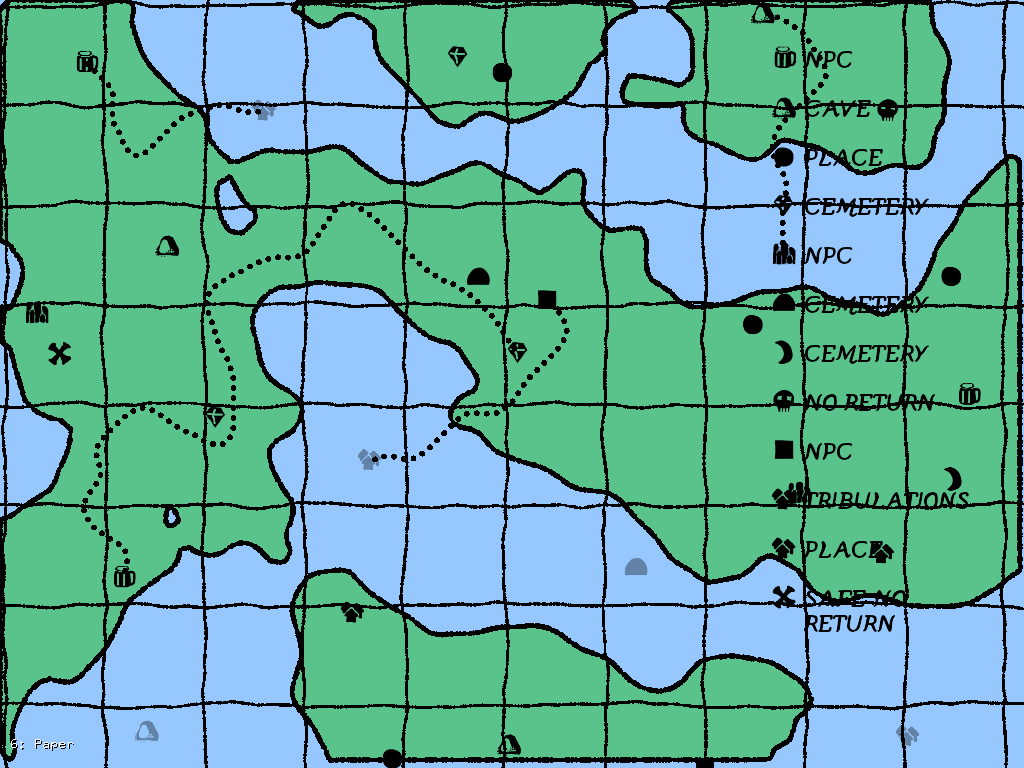
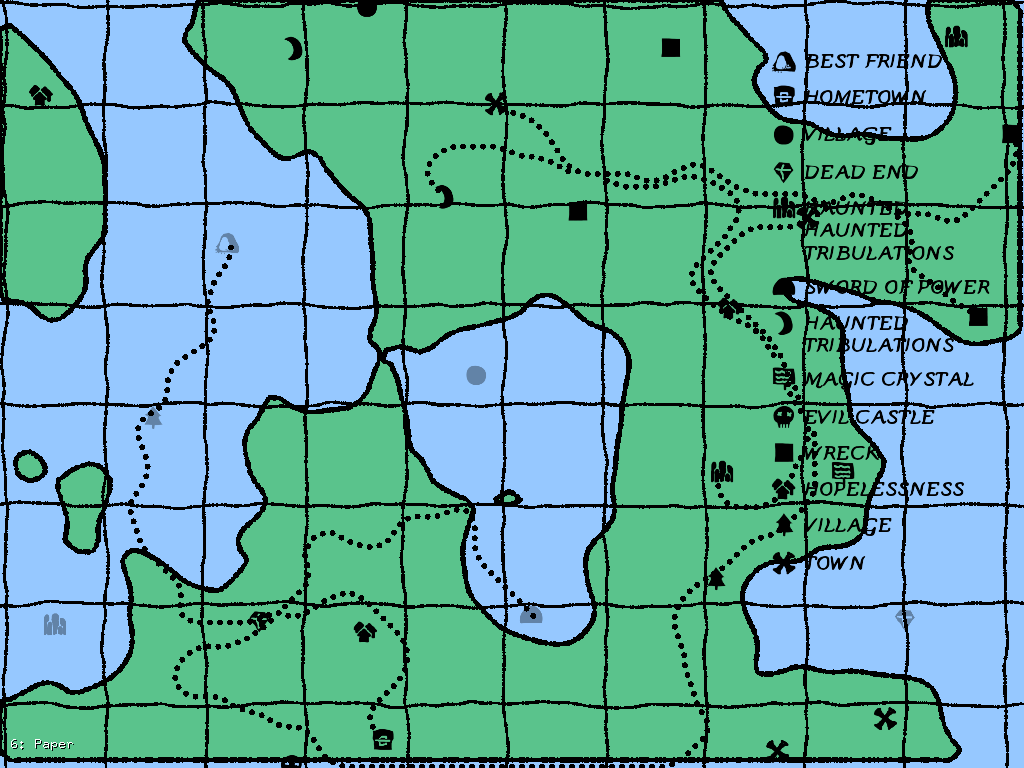
Whoops, include missing files. Also some tweaks.

diff --git a/LittleMap/src/Paper.cpp b/LittleMap/src/Paper.cpp
@@ -1,0 +1,102 @@
+#include "Paper.h"
+
+#include "Noise.h"
+#include "RoughDrawer.h"
+
+int margin = 25;
+const float gridNoiseScale = 0.05f;
+const float gridWobble = 8.0f;
+const float gridDetail = 12.0f;
+
+
+Paper::Paper(Legend& legendRef)
+	: legendRef(legendRef)
+{
+}
+
+Paper::~Paper()
+{
+}
+
+void Paper::Setup()
+{
+	Reset();
+}
+
+void Paper::Reset()
+{
+	if (image.isAllocated())
+		image.clear();
+	image.allocate(ofGetWidth(), ofGetHeight(), GL_RGBA);
+}
+
+float Paper::PaperNoise(float x, float y)
+{
+	return Noise(x*gridNoiseScale, y*gridNoiseScale, 3, 0.5f, 0.4f);
+}
+
+bool Paper::Render()
+{
+	ofRectangle legendBounds = legendRef.GetBounds();
+	legendBounds.translate(-margin, -margin);
+	legendBounds.setWidth(legendBounds.getWidth() + margin * 2);
+	legendBounds.setHeight(legendBounds.getHeight() + margin * 2);
+
+	ofPolyline path;
+	path.addVertex(legendBounds.getTopLeft());
+	float x, y;
+	y = legendBounds.getMinY();
+	for (x = legendBounds.getMinX(); x <= legendBounds.getMaxX(); x += gridDetail)
+	{
+		ofPoint offset(PaperNoise(x, y), PaperNoise(x, y + 1000.0f));
+		path.curveTo(offset * gridWobble + ofPoint(x, y));
+	}
+	path.lineTo(legendBounds.getTopRight());
+	x = legendBounds.getMaxX();
+	for (y = legendBounds.getMinY(); y <= legendBounds.getMaxY(); y += gridDetail)
+	{
+		ofPoint offset(PaperNoise(x, y), PaperNoise(x, y + 1000.0f));
+		path.curveTo(offset * gridWobble + ofPoint(x, y));
+	}
+	path.lineTo(legendBounds.getBottomRight());
+	y = legendBounds.getMaxY();
+	for (x = legendBounds.getMaxX(); x >= legendBounds.getMinX(); x -= gridDetail)
+	{
+		ofPoint offset(PaperNoise(x, y), PaperNoise(x, y + 1000.0f));
+		path.curveTo(offset * gridWobble + ofPoint(x, y));
+	}
+	path.lineTo(legendBounds.getBottomLeft());
+	x = legendBounds.getMinX();
+	for (y = legendBounds.getMaxY(); y >= legendBounds.getMinY(); y -= gridDetail)
+	{
+		ofPoint offset(PaperNoise(x, y), PaperNoise(x, y + 1000.0f));
+		path.curveTo(offset * gridWobble + ofPoint(x, y));
+	}
+	path.lineTo(legendBounds.getTopLeft());
+
+	image.begin();
+
+
+
+	ofSetColor(ofColor::beige);
+	ofFill();
+	ofEnableSmoothing();
+
+	ofTessellator tesselator = ofTessellator();
+	ofMesh mesh;
+	tesselator.tessellateToMesh(path, ofPolyWindingMode::OF_POLY_WINDING_ODD, mesh);
+	mesh.draw();
+
+	ofSetColor(ofColor::black);
+	ofFill();
+	ofEnableSmoothing();
+	RoughTracePath(path, 1.5f, 3.0f);
+
+	image.end();
+	return true;
+}
+
+void Paper::Draw()
+{
+	image.draw(0, 0);
+}

diff --git a/LittleMap/src/Paper.h b/LittleMap/src/Paper.h
@@ -1,0 +1,25 @@
+#pragma once
+#include "Stage.h"
+#include "ofMain.h"
+
+#include "Legend.h"
+
+class Paper : public Stage
+{
+public:
+	Paper(Legend& legendRef);
+	~Paper();
+
+	virtual void Setup();
+	virtual bool Render();
+	virtual void Draw();
+	virtual void Reset();
+
+private:
+	Legend& legendRef;
+	
+	float PaperNoise(float x, float y);
+
+	ofFbo image;
+};
+

diff --git a/LittleMap/src/RoughDrawer.cpp b/LittleMap/src/RoughDrawer.cpp
@@ -1,0 +1,15 @@
+#include "RoughDrawer.h"
+#include "ofMain.h"
+
+void RoughTracePath(ofPolyline& path, float minSize, float maxSize)
+{
+	float len = 0;
+	while (path.getIndexAtLength(len) < path.size()-1) // apparently size - 1....
+	{
+		ofPoint pt = path.getPointAtLength(len);
+		
+		ofDrawCircle(pt, ofRandom(minSize, maxSize));
+
+		len += 1;
+	}
+}

diff --git a/LittleMap/src/ofApp.cpp b/LittleMap/src/ofApp.cpp
@@ -190,6 +190,15 @@ void ofApp::keyPressed(int key)
 		if (currentStep < (int)done)
 			stages[currentStep]->DebugNum(key);
 	}
+	else if (key == 'r')
+	{
+		targetStep = 0;
+		autoAdvance = true;
+	}
+	else if (key == 'a')
+	{
+		autoAdvance = true;
+	}
 	else if (key == ')')
 		targetStep = 0;
 	else if (key == '!')

diff --git a/LittleMap/src/Legend.cpp b/LittleMap/src/Legend.cpp
@@ -3,11 +3,11 @@
 #include "Noise.h"
 
 int yOffset = 70;
-int ySpacing = 30;
+int ySpacing = 20;
 int xNegOffset = 220;
 int xMargin = 20;
-ofPoint imageOffset(-20, -12);
-int fontSize = 20;
+ofPoint imageOffset(-20, -9);
+int fontSize = 18;
 float adjectiveChance = 0.2f;
 
 

diff --git a/LittleMap/src/RoughDrawer.h b/LittleMap/src/RoughDrawer.h
@@ -1,0 +1,4 @@
+#pragma once
+#include "ofMain.h"
+
+void RoughTracePath(ofPolyline& path, float minSize, float maxSize);
